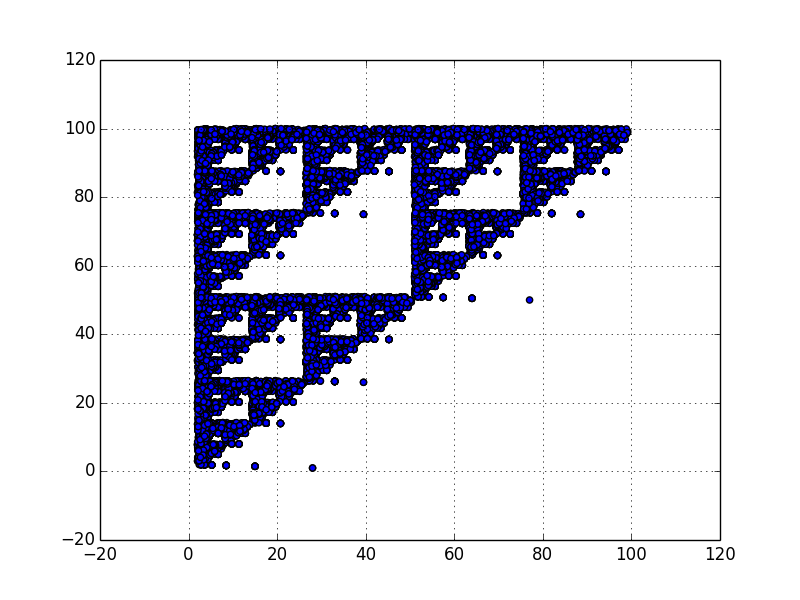
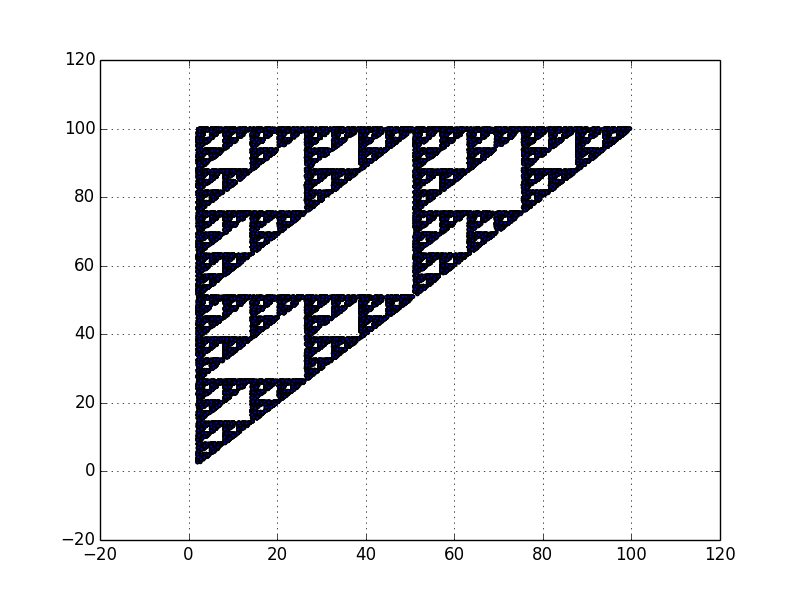
RFIS - Fully functional and ready to go! (but it is a bit slow)

Changed region(s): [[0.2188, 0.21, 0.8125, 0.78], [0.7188, 0.33, 0.75, 0.36], [0.6562, 0.48, 0.6875, 0.51]]

diff --git a/ch8_15.py b/ch8_15.py
@@ -13,7 +13,7 @@ import matplotlib.pyplot as plt
 
 
 MAX_POINTS = 10000
-DEPTH = 3
+DEPTH = 5
 XMAX = 100
 YMAX = 100
 
@@ -24,7 +24,7 @@ YMAX = 100
 # opt: 2 - Square
 ###############################################################################
 def genValidPoints( pointList, opt ):
-	if ( opt == 1 ):
+	if ( opt == 0 ):
 		y = 0
 		x = 0
 
@@ -44,7 +44,7 @@ def genValidPoints( pointList, opt ):
 			pointList.append( point )
 			y += -1
 		
-	if ( opt == 2 ):
+	if ( opt == 1 ):
 		y = 0
 		x = 0
 		
@@ -70,7 +70,7 @@ def genValidPoints( pointList, opt ):
 # Using the probability per transformation, selects which transformation is 
 #	done. Returns index number
 ###############################################################################
-def selectTransformation( codes, code_num, image ):
+def selectTransformation( codes, code_num ):
 	sum = 0
 	function = 0
 	max = 3
@@ -78,7 +78,7 @@ def selectTransformation( codes, code_num, image ):
 	#print prob
 	
 	# NOTE: must change to (0,3) for gasket! otherwise (0,4)
-	if ( image == 0 ):
+	if ( code_num == 0 ):
 		max = 4
 	
 	else:
@@ -109,6 +109,7 @@ def selectPoint( pointList ):
 #	w(X) = [ a b, c d] * [ x1, x2] + [ e, f ]
 ###############################################################################
 def runTransformation( pointList, index, function ):
+	#print "pointList: ", pointList
 	x, y = pointList[ index-1 ]
 	xnew, ynew = 0, 0
 	a, b, c, d, e, f, p = function
@@ -169,21 +170,21 @@ def plotImage( pointList, title ):
 	length = len( pointList )
 	for i in range( 0, length ):
 		x, y = pointList[i]
-		#print "X: ", x, " Y: ", y
-		plt.scatter( x, y )
+		plt.scatter( x, y, marker="." )
 		
 	plt.grid( True )
 	#plt.show()
 	plt.savefig( title + '.png' )
+	plt.clf()
 
 ###############################################################################
 #									Main
 ###############################################################################
 codes = []
 titles = []
-list = []
-listnew = []
-pointlists = []
+plist = []
+plistnew = []
+#pointlists = []
 fractal_count = 0
 i = 0
 
@@ -194,30 +195,33 @@ fractal_count = readCodes( codes, titles, fractal_count )
 for i in range( 0, fractal_count+1 ):
 	# gasket and square - need initial list seeded
 	if ( i < 2 ):
-		genValidPoints( list, i+1 )
+		genValidPoints( plist, i )
 		for j in range( MAX_POINTS ):
-			index = selectPoint( list )
+			index = selectPoint( plist )
+			#print "index: ", index
 			for iterations in range( DEPTH ):
-				code_num = i
-				trans_num = selectTransformation( codes, code_num, i )
-				new_point = runTransformation( list, index, codes[code_num][trans_num] )
-				listnew.append(new_point)
-			list = listnew
-		plotImage( list, titles[i] )
-		pointlists.append( list )
-		pointlists.append( [] )
-		list = []
+				trans_num = selectTransformation( codes, i )
+				new_point = runTransformation( plist, index, codes[i][trans_num] )
+				plistnew.append( new_point )
+			plist = plistnew
+			
+		plotImage( plist, titles[i] )
+		#pointlists.append( plist )
+		#pointlists.append( [] )
+		#del plist[:]
+		#del plistnew[:]
 	
 	# fern and tree - need inital point seeded
 	else:
-		list = [ (0,0) ]
+		plist = [ (0,0) ]
 		for j in range( MAX_POINTS ):
-			index = selectPoint( list )
+			index = selectPoint( plist )
 			for iterations in range( DEPTH ):
-				code_num = i
-				trans_num = selectTransformation( codes, code_num, i )
-				new_point = runTransformation( list, index, codes[code_num][trans_num] )
-				list.append(new_point)
-		plotImage( list, titles[i] )
-		pointlists.append( list )
-		pointlists.append( [] )
+				trans_num = selectTransformation( codes, i )
+				new_point = runTransformation( plist, index, codes[i][trans_num] )
+				plist.append(new_point)
+		plotImage( plist, titles[i] )
+		#pointlists.append( plist )
+		#pointlists.append( [] )
+	del plist[:]
+	del plistnew[:]
